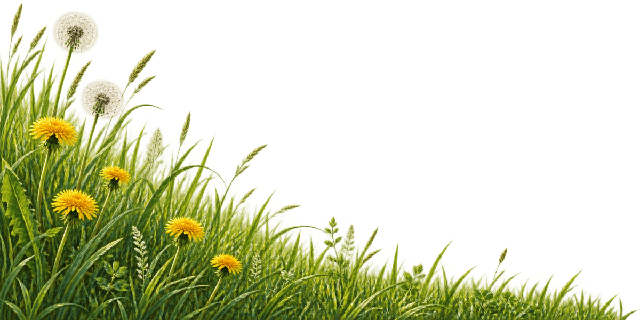
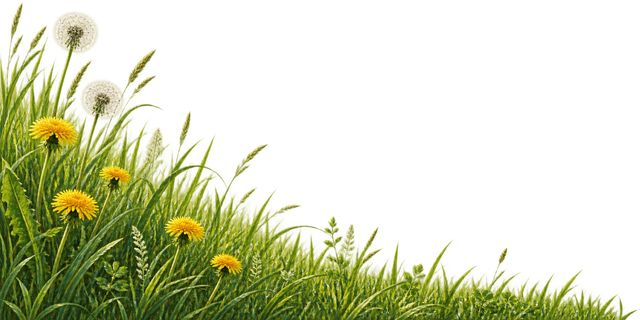
fix(meadow): task 5 review round 1
The four grass corners were resized 1200x600 -> 640x320 by nearest
neighbour while the manifest recorded Lanczos (G137 R-M6 / R-M20: a
`processing` line records exactly what was done). Their sources are
256-colour palette PNGs, and Pillow's resize on a palette image silently
swaps any filter for NEAREST. The prepare script now converts a palette
source to RGBA before resizing; the corners are re-rendered with a real
Lanczos pass and their manifest hashes updated. Every other file is
byte-identical. Total art 3,494,233 B of the 4 MiB budget.

ArtAssetTests gains a check the hash test could not make: a file whose
entry records a Lanczos resize (and no later quantize) must carry more
than 256 distinct colours, which a nearest pass over a palette source
never can. Red on the old bytes (4 failures), green on the new.

diff --git a/app/CicadaApp/Tests/CicadaAppTests/ArtAssetTests.swift b/app/CicadaApp/Tests/CicadaAppTests/ArtAssetTests.swift
@@ -118,6 +118,39 @@ final class ArtAssetTests: XCTestCase {
         }
     }
 
+    /// Task 5 review round 1: the grass corners' sources are 256-colour
+    /// palette PNGs, and Pillow's `resize` on a palette image silently swaps
+    /// any filter for NEAREST. The manifest said "(Lanczos)" over aliased,
+    /// nearest-neighbour bytes, and the hash test could not see it because the
+    /// hashes matched the wrong bytes. A real Lanczos pass blends neighbours,
+    /// so it leaves far more than 256 distinct colours; a nearest pass over a
+    /// palette source can never exceed 256. A file quantized afterwards is
+    /// exempt — its own entry says so.
+    func testAFileRecordedAsLanczosResizedWasNotNearestNeighbour() throws {
+        let resized = try manifest().assets.filter {
+            $0.processing.contains("(Lanczos)") && !$0.processing.contains("quantized")
+        }
+        XCTAssertFalse(resized.isEmpty, "no entry records a Lanczos resize — this check would pass vacuously")
+        for e in resized {
+            let r = try rep(e.file)
+            let bytesPerPixel = r.bitsPerPixel / 8
+            XCTAssertEqual(r.bitsPerSample, 8, "\(e.file) is not 8 bits per sample")
+            XCTAssertFalse(r.isPlanar, "\(e.file) is planar")
+            let data = try XCTUnwrap(r.bitmapData, "\(e.file) has no bitmap data")
+            var colours = Set<UInt32>()
+            for y in 0..<r.pixelsHigh {
+                let row = data + y * r.bytesPerRow
+                for x in 0..<r.pixelsWide {
+                    var v: UInt32 = 0
+                    for b in 0..<min(bytesPerPixel, 4) { v = v << 8 | UInt32(row[x * bytesPerPixel + b]) }
+                    colours.insert(v)
+                }
+            }
+            XCTAssertGreaterThan(colours.count, 256,
+                                 "\(e.file) has \(colours.count) colours; its manifest says Lanczos, the bytes say nearest")
+        }
+    }
+
     func testArtStaysInsideItsPixelAndByteBudget() throws {
         var total = 0
         for e in try manifest().assets {
